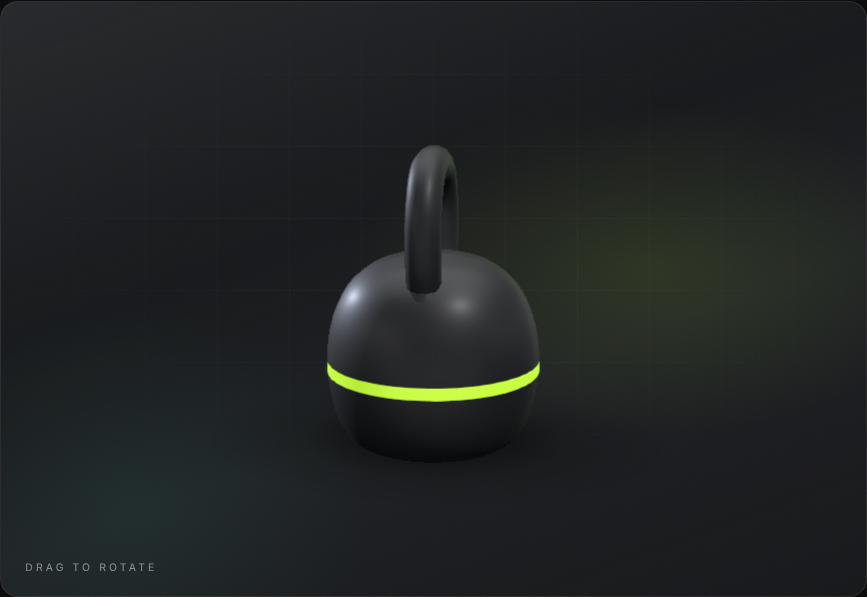
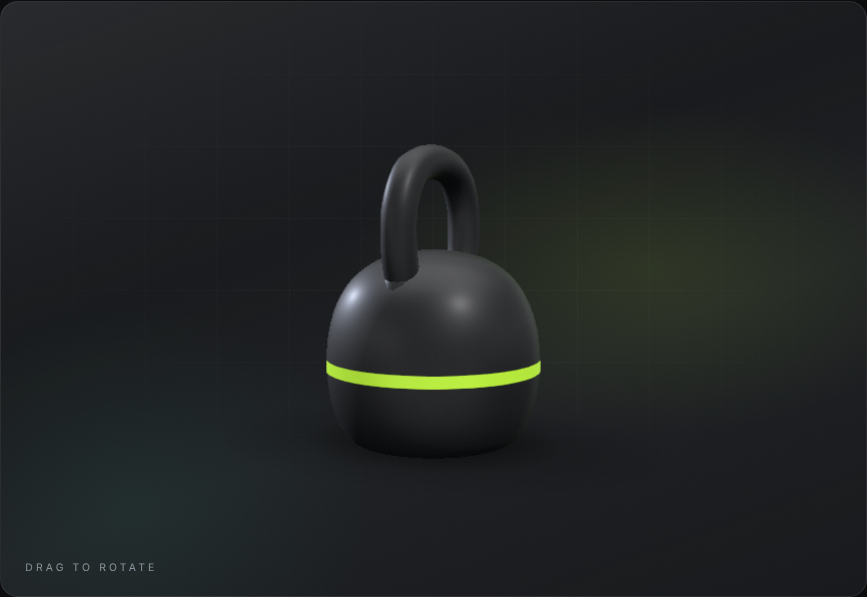
Complete public site with realistic 3D layer; README and 3D tests
- public website: header/footer, all 24 CMS section renderers, public pages,
  admin draft preview, SEO + structured data
- 3D layer: textured procedural PBR models (knurled grips, rubber, brushed
  steel, weight labels), studio lighting, subtle post-processing on capable
  devices, quality tiers, lazy chunks, WebGL fallback poster, GLB support
- redesigned hero: framed scene, accent headline, live stats bar
- vite: function-form manualChunks so three/r3f/charts load lazily
- tests for 3D fallback and quality tiers; README; final screenshots

Verified: typecheck, lint, 123 tests, production build, npm audit (0).

Claude-Session: https://claude.ai/code/session_0124vVxb3qtqHFGPqPU8d9wt

Changed region(s): [[0.436, 0.2412, 0.5294, 0.5126], [0.3737, 0.603, 0.6228, 0.6935]]

diff --git a/client/src/features/sections/sections/ContentSections.tsx b/client/src/features/sections/sections/ContentSections.tsx
@@ -1,5 +1,4 @@
 import { useEffect, useState } from 'react';
-import { ArrowRight, Check } from 'lucide-react';
 import type { SectionProps } from '@apex/shared';
 import { useSite } from '@/app/SiteProvider';
 import { cn } from '@/lib/cn';
@@ -213,7 +212,7 @@ export function PromoSection({ p }: { p: SectionProps<'promo'> }) {
   return (
     <SectionShell type="promo" props={p} labelledBy={headingId}>
       <div className="container">
-        <Reveal className="glow-accent relative isolate grid overflow-hidden rounded-theme border border-primary/25 lg:grid-cols-[1.4fr_1fr]">
+        <Reveal className={cn('glow-accent relative isolate grid overflow-hidden rounded-theme border border-primary/25', cd && !cd.ended && 'lg:grid-cols-[1.4fr_1fr]')}>
           <div aria-hidden className="metal-panel absolute inset-0 -z-20" />
           {p.imageUrl ? (
             <div aria-hidden className="absolute inset-0 -z-10">
@@ -238,8 +237,8 @@ export function PromoSection({ p }: { p: SectionProps<'promo'> }) {
             )}
             {cd?.ended && preview && <p className="mt-6 text-sm text-warning">This offer has ended — it is hidden on the live site.</p>}
           </div>
-          <div className="flex items-center border-t border-fg/[0.08] p-8 md:p-14 lg:border-l lg:border-t-0">
-            {cd && !cd.ended ? (
+          {cd && !cd.ended && (
+            <div className="flex items-center border-t border-fg/[0.08] p-8 md:p-14 lg:border-l lg:border-t-0">
               <div className="w-full">
                 <p className="text-xs uppercase tracking-[0.24em] text-muted">Offer ends {fmtDate(p.endsAt, { day: 'numeric', month: 'long' })}</p>
                 <div className="mt-5 grid grid-cols-4 gap-2" role="timer" aria-label={`Offer ends ${fmtDate(p.endsAt, { day: 'numeric', month: 'long', hour: 'numeric', minute: '2-digit' })}`}>
@@ -262,24 +261,8 @@ export function PromoSection({ p }: { p: SectionProps<'promo'> }) {
                   ))}
                 </div>
               </div>
-            ) : (
-              <ul className="w-full space-y-3 text-sm text-fg/80">
-                <li className="flex items-center gap-3">
-                  <span className="grid h-9 w-9 place-items-center rounded-full bg-primary/15 text-primary">
-                    <Check className="h-4 w-4" aria-hidden />
-                  </span>
-                  <span className="font-display text-xl font-semibold">Limited availability</span>
-                </li>
-                {p.cta && (
-                  <li className="pl-12 text-muted">
-                    <span className="inline-flex items-center gap-1">
-                      {p.cta.label} <ArrowRight className="h-3.5 w-3.5" aria-hidden />
-                    </span>
-                  </li>
-                )}
-              </ul>
-            )}
-          </div>
+            </div>
+          )}
         </Reveal>
       </div>
     </SectionShell>

diff --git a/client/src/__tests__/scene.test.tsx b/client/src/__tests__/scene.test.tsx
@@ -1,0 +1,41 @@
+import { render, screen } from '@testing-library/react';
+import { afterEach, describe, expect, it, vi } from 'vitest';
+import { defaultScene } from '@apex/shared';
+import { SceneCanvas } from '@/3d/SceneCanvas';
+import { detectQuality, hasWebGL } from '@/3d/quality';
+
+describe('3D fallback', () => {
+  it('jsdom has no WebGL, so detection reports false', () => {
+    expect(hasWebGL()).toBe(false);
+  });
+
+  it('renders the accessible static poster instead of a canvas when WebGL is unavailable', () => {
+    const { container } = render(<SceneCanvas config={defaultScene({ modelId: 'dumbbell' })} label="Hex dumbbell, rotating" />);
+    expect(screen.getByRole('img', { name: 'Hex dumbbell, rotating' })).toBeInTheDocument();
+    expect(container.querySelector('canvas')).toBeNull();
+  });
+
+  it('uses the admin-provided fallback image when WebGL is unavailable', () => {
+    render(<SceneCanvas config={defaultScene()} label="Hero" fallbackImageUrl="/uploads/public/hero/x.webp" fallbackImageAlt="Training floor" />);
+    expect(screen.getByAltText('Training floor')).toHaveAttribute('src', '/uploads/public/hero/x.webp');
+  });
+});
+
+describe('quality tiers', () => {
+  afterEach(() => vi.unstubAllGlobals());
+
+  it('drops to the low tier for data-saver users', () => {
+    vi.stubGlobal('navigator', { hardwareConcurrency: 16, deviceMemory: 16, connection: { saveData: true } });
+    const q = detectQuality(false);
+    expect(q.tier).toBe('low');
+    expect(q.saveData).toBe(true);
+    expect(q.shadows).toBe(false);
+  });
+
+  it('caps pixel ratio and keeps reduced-motion preference', () => {
+    vi.stubGlobal('navigator', { hardwareConcurrency: 4, deviceMemory: 4 });
+    const q = detectQuality(true);
+    expect(q.maxDpr).toBeLessThanOrEqual(2);
+    expect(q.reducedMotion).toBe(true);
+  });
+});

diff --git a/client/src/features/sections/cards.tsx b/client/src/features/sections/cards.tsx
@@ -89,7 +89,7 @@ export function useJoinHref() {
 
 export function PlanCard({ plan, highlighted }: { plan: Plan; highlighted: boolean }) {
   const joinHref = useJoinHref();
-  const perMonth = plan.durationDays >= 85 && plan.priceMinor > 0 ? Math.round(plan.priceMinor / (plan.durationDays / 30)) : null;
+  const perMonth = plan.durationDays >= 85 && plan.priceMinor > 0 ? Math.round(plan.priceMinor / (plan.durationDays / 30) / 100) * 100 : null;
   const label = plan.promoLabel || (highlighted ? 'Most popular' : plan.isTrial ? 'Try it' : '');
   return (
     <div className={cn('card lift relative flex h-full flex-col p-7 md:p-8', highlighted && 'glow-accent border-primary/40')}>
@@ -103,7 +103,7 @@ export function PlanCard({ plan, highlighted }: { plan: Plan; highlighted: boole
       </div>
       <div className="mt-8 flex items-end gap-2">
         <span className="font-display text-5xl font-semibold tracking-tight tabular-nums">{plan.priceMinor === 0 ? 'Free' : money(plan.priceMinor)}</span>
-        <span className="pb-1.5 text-sm text-muted">/ {durationLabel(plan.durationDays)}</span>
+        <span className="pb-1.5 text-sm text-muted">{plan.priceMinor === 0 ? `for ${plan.durationDays} days` : `/ ${durationLabel(plan.durationDays)}`}</span>
       </div>
       <div className="mt-2 min-h-[1.25rem] text-xs text-muted">
         {plan.compareAtMinor && plan.compareAtMinor > plan.priceMinor ? <span className="mr-3 line-through">{money(plan.compareAtMinor)}</span> : null}

diff --git a/client/vite.config.ts b/client/vite.config.ts
@@ -23,11 +23,20 @@ export default defineConfig({
     chunkSizeWarningLimit: 900,
     rollupOptions: {
       output: {
-        manualChunks: {
-          three: ['three'],
-          r3f: ['@react-three/fiber', '@react-three/drei'],
-          charts: ['recharts'],
-          motion: ['framer-motion', 'gsap'],
+        // Function form matches package paths only. The object form also pulled Vite's preload
+        // helper into the r3f chunk, which made every page eagerly download three.js.
+        manualChunks(id) {
+          // Vite/Rollup virtual helpers (preload helper, CJS interop) go to a tiny shared chunk.
+          if (id.startsWith('\0')) return 'runtime';
+          if (!id.includes('/node_modules/')) return undefined;
+          // Tiny utilities shared by app code and lazy libraries must not drag those libraries in.
+          if (/\/node_modules\/(clsx|tailwind-merge|react|react-dom|react-is|scheduler|prop-types|use-sync-external-store)\//.test(id)) return 'runtime';
+          if (/\/node_modules\/three\//.test(id)) return 'three';
+          if (/\/node_modules\/(@react-three|three-stdlib|postprocessing|maath|troika-|camera-controls)/.test(id)) return 'r3f';
+          if (/\/node_modules\/(recharts|d3-)/.test(id)) return 'charts';
+          if (/\/node_modules\/gsap\//.test(id)) return 'gsap';
+          if (/\/node_modules\/(framer-motion|motion-dom|motion-utils)\//.test(id)) return 'motion';
+          return undefined;
         },
       },
     },

diff --git a/client/src/features/sections/sections/HeroSection.tsx b/client/src/features/sections/sections/HeroSection.tsx
@@ -49,10 +49,10 @@ function TrustBar({ showScrollHint }: { showScrollHint: boolean }) {
   return (
     <motion.div {...fade(0.9)} className="flex w-full items-end justify-between gap-6 border-t border-fg/[0.08] pt-5">
       {items.length > 0 ? (
-        <dl className="flex flex-wrap">
+        <dl className="grid w-full grid-cols-3 sm:flex sm:w-auto">
           {items.map((it, i) => (
-            <div key={it.label} className={cn('flex flex-col-reverse gap-1 pr-6 sm:pr-10', i > 0 && 'border-l border-fg/[0.1] pl-6 sm:pl-10')}>
-              <dt className="text-[0.65rem] uppercase tracking-[0.22em] text-muted">{it.label}</dt>
+            <div key={it.label} className={cn('flex flex-col-reverse gap-1 pr-3 sm:pr-10', i > 0 && 'border-l border-fg/[0.1] pl-3 sm:pl-10')}>
+              <dt className="text-[0.6rem] uppercase leading-snug tracking-[0.16em] text-muted sm:text-[0.65rem] sm:tracking-[0.22em]">{it.label}</dt>
               <dd className="font-display text-2xl font-semibold tabular-nums tracking-tight sm:text-3xl">{nf.format(it.value)}</dd>
             </div>
           ))}

diff --git a/client/src/components/layout/public.css b/client/src/components/layout/public.css
@@ -51,7 +51,10 @@
   -webkit-text-stroke: 1px rgb(var(--c-text) / 0.28);
 }
 .glow-accent { box-shadow: none; }
-[data-glow='true'] .glow-accent { box-shadow: 0 0 0 1px rgb(var(--c-primary) / 0.35), 0 30px 80px -30px rgb(var(--c-primary) / 0.35); }
+[data-glow='true'] .glow-accent { box-shadow: 0 0 0 1px rgb(var(--c-primary) / 0.3), 0 24px 60px -34px rgb(var(--c-primary) / 0.3); }
+
+/* Consecutive sections on the same background share their padding instead of doubling it. */
+section.section[data-section-type] + section.section[data-section-type]:not(.bg-surface):not(.section-contrast) { padding-top: calc(var(--section-y) * 0.45); }
 
 /* ---------- Marquee ---------- */
 .marquee-track { animation: marquee 50s linear infinite; }

diff --git a/client/src/components/layout/Footer.tsx b/client/src/components/layout/Footer.tsx
@@ -119,7 +119,7 @@ export function Footer() {
 
         <div className="mt-16 flex flex-col-reverse gap-6 border-t border-fg/[0.07] py-8 text-xs text-muted md:flex-row md:items-center md:justify-between">
           <p>
-            © {year} {s?.business.legalName || brandName}. All rights reserved.
+            © {year} {(s?.business.legalName || brandName).replace(/\.$/, '')}. All rights reserved.
           </p>
           <div className="flex flex-wrap items-center gap-x-6 gap-y-3">
             {s?.privacy.privacyPolicyUrl && (

diff --git a/client/src/3d/materials.tsx b/client/src/3d/materials.tsx
@@ -241,7 +241,6 @@ export function MaterialsProvider({ quality, children }: { quality: QualitySetti
   const accent = useThemeColor('--c-primary');
   const hex = accent.getHexString();
   // Rebuilt when the theme accent changes (labels are baked into textures).
-  // eslint-disable-next-line react-hooks/exhaustive-deps
   const mats = useMemo(() => createMaterials(quality, new THREE.Color(`#${hex}`)), [quality, hex]);
   useEffect(
     () => () => {

diff --git a/client/src/pages/public/SchedulePage.tsx b/client/src/pages/public/SchedulePage.tsx
@@ -10,7 +10,7 @@ export default function SchedulePage() {
   const q = useClasses(14, 200);
   const [level, setLevel] = useState('');
   const [trainer, setTrainer] = useState('');
-  const all = q.data ?? [];
+  const all = useMemo(() => q.data ?? [], [q.data]);
   const trainers = useMemo(() => {
     const m = new Map<string, string>();
     all.forEach((c) => c.trainer && m.set(c.trainer.id, c.trainer.name));

diff --git a/docs/3d.md b/docs/3d.md
@@ -1,0 +1,88 @@
+# 3D layer
+
+The public site renders interactive 3D equipment in two CMS sections, **Hero** (`scene` prop) and
+**3D equipment showcase** (`equipment3d`). Both are driven by `SceneConfig`
+(`shared/src/scene.ts`): model id, transform, camera, environment preset, auto-rotate, interaction
+and scroll animation. The scene is a progressive enhancement: the page is complete without it.
+
+## Architecture (`client/src/3d/`)
+
+| File | Role | Imports three? |
+| --- | --- | --- |
+| `SceneCanvas.tsx` | Public entry point. Detects WebGL, waits until the element is near the viewport, lazy-loads `SceneRoot`, pauses rendering when off-screen or when the tab is hidden, and cross-fades from the poster when the first frames are ready. Error boundary: any failure falls back to the poster. | **No** |
+| `ScenePoster.tsx` | Theme-aware SVG composition (bumper plate / dumbbell). Used as the loading state and as the permanent fallback (no WebGL, data-saver, context lost). Uses the hero `imageUrl` instead when one is set. | No |
+| `quality.ts` | `useQualityTier()`, `hasWebGL()`, `useViewport()`, `usePageVisible()`, `usePrefersReducedMotion()`. | No |
+| `SceneRoot.tsx` | The R3F `<Canvas>`: camera sync, lighting, model stage, a baked floor shadow, post-processing, `PerformanceMonitor` (drops DPR under load), glTF progress UI. **Lazy chunk.** | Yes |
+| `Lighting.tsx` | `<Environment frames={1}>` built from `<Lightformer>`s (overhead softbox, two tall strips for chrome highlights, warm and cool rims, low fill, faint accent ring). Presets: `studio`, `night`, `warm`. **No HDR files are downloaded.** | Yes |
+| `Rig.tsx` | Motion: auto-rotate (`spin`) or `sway`, idle float, mouse parallax (clamped ±0.28/±0.12 rad), horizontal drag-to-rotate (`touch-action: pan-y` keeps vertical page scroll; the wheel is never captured, so there is no zoom hijacking), and a GSAP ScrollTrigger scrubbed rotation and drop tied to the hero's scroll progress. Cleans up on unmount. | Yes |
+| `materials.tsx` | Shared PBR materials plus **generated canvas textures**: a diamond-knurl normal and roughness map (Sobel height→normal), an EPDM rubber fleck map with micro-normal, brushed-steel roughness, and label decals (`20 KG`, `22.5 KG`, tick ring) in the theme primary colour. The primary colour is read from the `--c-primary` CSS variable and follows live theme changes. Textures are 1024/512/256 px by tier and are disposed on unmount. | Yes |
+| `models/*` | Procedural, real-scale (metres) models: `WeightPlate` (rounded lathe rubber body, brushed hub insert, label decal, accent ring), `Barbell` (2.2 m, knurl zones with IWF marks, chrome flanges, bronze bushings, ribbed sleeves, collars), `Dumbbell` (bevelled hex extrusions, knurled handle, chrome collars, end caps with label and screw), `Kettlebell` (spline-lathe cast body, swept-tube handle, horns, colour weight band), `Bench` (adjustable FID), `HeroStack` (still life). | Yes |
+| `models/registry.tsx` | `MODEL_REGISTRY` maps ids to components, plus `size`, `motion` and resting angle. `<Fit>` auto-centres and scales any model (procedural or glTF) from its local bounding box. Also contains `resolveModel()`, glTF loading and the glTF error boundary. | Yes |
+
+Code splitting (verified with `npx vite build`): `three` (≈177 KB gz), `r3f` (fiber + drei +
+postprocessing, ≈128 KB gz), `gsap` and `SceneRoot` are separate chunks that are **not** preloaded
+by `index.html`. They load only when a scene nears the viewport.
+
+## Quality tiers (`useQualityTier`)
+
+The tier is derived from `hardwareConcurrency`, `deviceMemory`, the short screen side, a coarse pointer, DPR,
+`navigator.connection.saveData` and 2G connections.
+
+| | low | medium | high |
+| --- | --- | --- | --- |
+| DPR cap | 1.25 | 1.5 | 2 (phones always ≤ 1.5) |
+| Antialias | off | on | on (MSAA 4× in composer) |
+| Shadow maps | off | off | on (soft) |
+| Floor shadow | light | baked footprint | baked footprint |
+| Environment cube | 64 | 128 | 256 |
+| Texture size | 256 | 512 | 1024 |
+| Surface detail (knurl normal maps, segments) | off / 0.6× | on / 0.85× | on / 1× |
+| Post-processing | none | Bloom + SMAA | Bloom + MSAA |
+
+* `frameloop` is `always` only while auto-rotating and on screen. It is `demand` when idle (pointer and scroll
+  invalidate frames) and `never` when off-screen or when the tab is hidden.
+* **Reduced motion**: no auto-rotate, float, parallax easing or scroll animation, and no post-processing.
+  The model renders as a still and can still be dragged. The custom cursor is disabled too.
+* **Save-Data**: the 3D chunk is never downloaded and the poster is shown.
+* Budget: the hero composition is ≈62k triangles at the medium tier (≈75k at high), with 93 meshes.
+
+## Fallbacks
+
+1. No WebGL (or `saveData`): the poster is shown (or the hero image when set).
+2. The chunk fails to load, a render throws, or the WebGL context is lost: the error boundary shows the poster.
+3. A glTF fails to load or parse: the procedural dumbbell is shown instead.
+
+## Adding a licensed `.glb`
+
+**Option A: upload (recommended).** Admin → Website → 3D models. The server validates the file
+type and size, and the model must be **approved** before it appears in `GET /cms/site` →
+`models` as `{ id: 'asset:<mediaId>', kind: 'gltf', url }`. Editors can then pick it in any scene
+field (`modelId: "asset:<id>"`). It renders through the same lighting, floor shadow and
+post-processing pipeline, auto-fitted by `<Fit>`, with a loading progress bar (`useProgress`).
+
+**Option B: bundle it.** Put the file in `client/public/models/<name>.glb` (served at
+`/models/<name>.glb`), register it in `BUNDLED_GLTF` in `client/src/3d/models/registry.tsx`
+(`{ url: '/models/<name>.glb', size: 2.6 }`), and add the id to `BUILTIN_MODELS` in `shared/src/scene.ts`.
+
+File guidance: glTF 2.0 binary, PBR metallic-roughness, ≤ 3 MB, textures ≤ 2K, ideally
+≤ 50k triangles. Use **uncompressed or meshopt** compression. Draco is intentionally disabled
+so no decoder is fetched from a third-party CDN. Real-world scale is not required.
+
+### Swapping in photogrammetry
+
+External model libraries are not reachable from the build container. To use a scanned model:
+
+1. Download it on your own machine from a source whose licence permits commercial web use, for example Poly Haven
+   (CC0) or Sketchfab models marked CC-BY or CC0.
+2. Optimise it with `gltf-transform optimize in.glb out.glb --compress meshopt --texture-compress webp`
+   (keep it under 3 MB).
+3. Upload it via Admin → Website → 3D models, then approve it.
+4. Set the hero's or showcase item's model to the uploaded asset.
+
+## Licensing
+
+* All procedural geometry and generated textures in `client/src/3d` are original code and ship with
+  the project. There are no third-party 3D assets or HDRIs.
+* For uploaded or bundled models, keep the licence and attribution with the asset (for example in the media
+  library's alt/description field). CC-BY models **require visible attribution** on the site, such as
+  a footer or credits page. Do not use "editorial only" or non-commercial (NC) assets.

diff --git a/README.md b/README.md
@@ -1,0 +1,58 @@
+# Apex Athletics — luxury 3D gym website & gym management system
+
+A full-stack platform for a premium fitness club: a cinematic 3D public website that the owner edits from an
+admin dashboard (no code changes), plus memberships, Razorpay payments, class/PT bookings, QR attendance,
+member and trainer dashboards, notifications and reports.
+
+![Hero](docs/screenshots/hero-desktop.png)
+
+## What's inside
+
+| Area | Highlights |
+| --- | --- |
+| **Public website** | Sticky transparent→solid header, announcement bar, 24 CMS section types (hero, stats, programs, 3D equipment, trainers, pricing, schedule, transformations, testimonials, before/after, facilities, BMI & calorie calculator, promo countdown, blog, FAQ, location, trial form, contact, newsletter…), SEO tags, JSON-LD, sitemap, robots |
+| **3D layer** | React Three Fiber; procedural, textured PBR models (hex dumbbell, barbell, bumper plate, kettlebell, bench, hero composition); studio lighting without HDR downloads; device quality tiers; lazy-loaded chunks; pauses off-screen; reduced-motion support; static poster fallback without WebGL; approved `.glb` uploads |
+| **CMS & theme builder** | Drag-and-drop section builder, field-driven editors, media picker, live device preview, autosave drafts, validated publish, versions & restore; theme presets, colours, fonts, buttons, cards, effects, header/footer with live preview; media library; 3D model review; content collections; blog with Markdown |
+| **Admin operations** | Overview KPIs, members, memberships, plans, coupons, payments & refunds, offline payments, trainers, classes (weekly series, rosters), trial requests, front-desk QR check-in, exercise library, reports with CSV, settings, staff permissions, audit log, support, campaigns |
+| **Member dashboard** | Membership & renewal/upgrade, checkout, receipts, class & PT booking with waitlist, workouts & logs, progress charts, private progress photos, goals, QR check-in, rewards & referrals, support, notifications |
+| **Trainer dashboard** | Assigned members, progress, plan builder, schedule & attendance marking, notes & follow-ups, availability, check-in |
+| **Backend** | Express + TypeScript + MongoDB; cookie auth with rotating refresh tokens & CSRF; RBAC + ownership checks; server-priced, signature-verified, idempotent payments; transactions; scheduled jobs with locks; OpenAPI docs |
+
+## Quick start
+
+```bash
+docker compose up -d mongo              # MongoDB replica set (or use Atlas)
+npm install
+cp server/.env.example server/.env      # set JWT_ACCESS_SECRET; PAYMENT_PROVIDER=sandbox for local testing
+npm run seed                            # starter website content
+npm run create-admin                    # first admin — no default credentials
+npm run dev                             # site http://localhost:5173 · API http://localhost:4000/api/docs
+```
+
+Full instructions: [docs/setup.md](docs/setup.md).
+
+## Checks
+
+```bash
+npm run typecheck && npm run lint && npm test && npm run build
+```
+
+Tests: shared schemas (18), server (77, against an in-memory MongoDB replica set), client (28).
+
+## Implemented vs. needs configuration
+
+| Works out of the box | Needs your credentials |
+| --- | --- |
+| Website, CMS, theme, dashboards, bookings, attendance, reports, local media storage | **Razorpay** keys + webhook secret for real payments ([integrations](docs/integrations.md#razorpay-membership-payments)). Local dev uses a clearly labelled sandbox gateway that goes through the same server verification and is refused in production. |
+| In-app notifications | **SMTP** for email (logged until configured) · **WhatsApp** via Meta Cloud API or Twilio (optional) |
+| Procedural 3D models | Licensed photogrammetry **.glb** models (optional) — upload in Admin → Website → 3D models ([docs/3d.md](docs/3d.md)) |
+| Local uploads | **Cloudinary** (optional) for CDN media storage |
+
+Seeded testimonials/transformation stories are unpublished examples; publish only real, consented member content.
+Legal pages (privacy, terms) contain placeholders to replace before launch.
+
+## Documentation
+
+[Setup](docs/setup.md) · [Architecture](docs/architecture.md) · [API](docs/api.md) · [Database](docs/database.md) ·
+[CMS](docs/cms.md) · [3D](docs/3d.md) · [Integrations](docs/integrations.md) · [Security](docs/security.md) ·
+[Deployment](docs/deployment.md) · [Screenshots](docs/screenshots)
